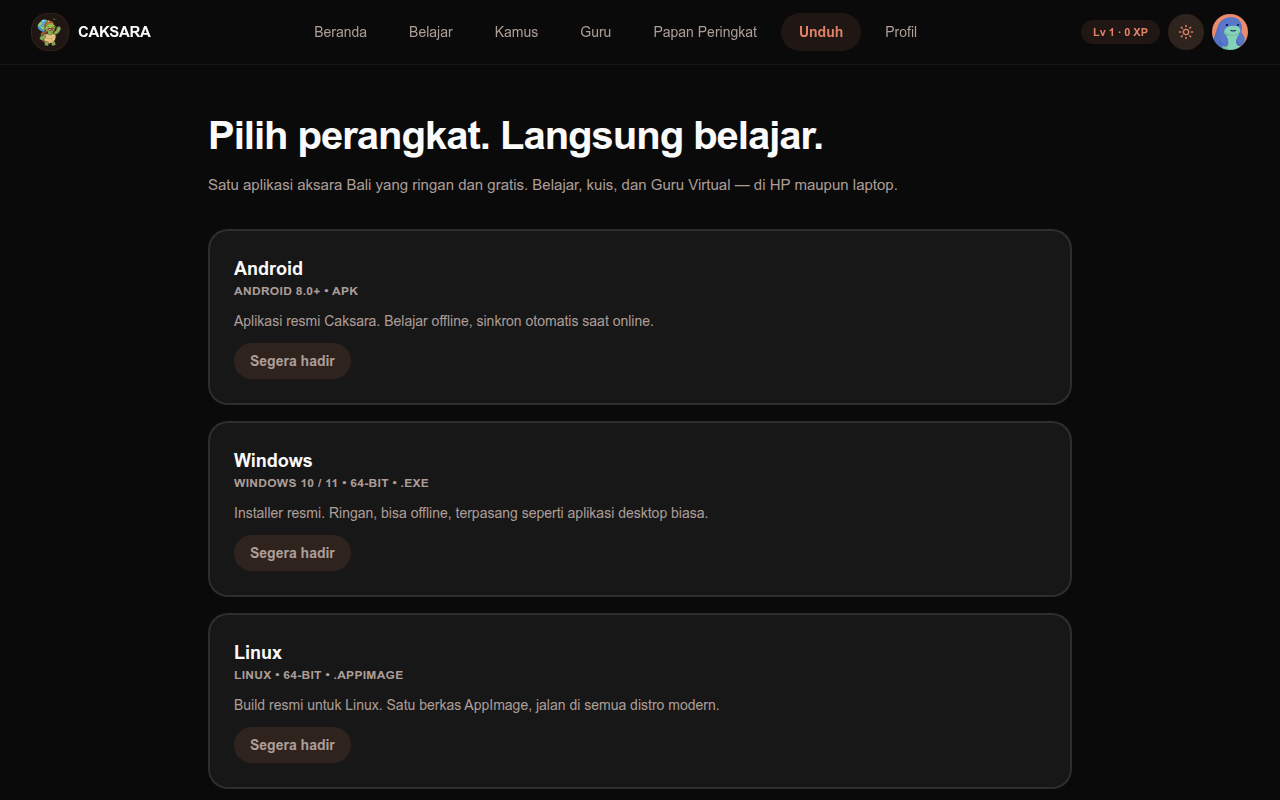
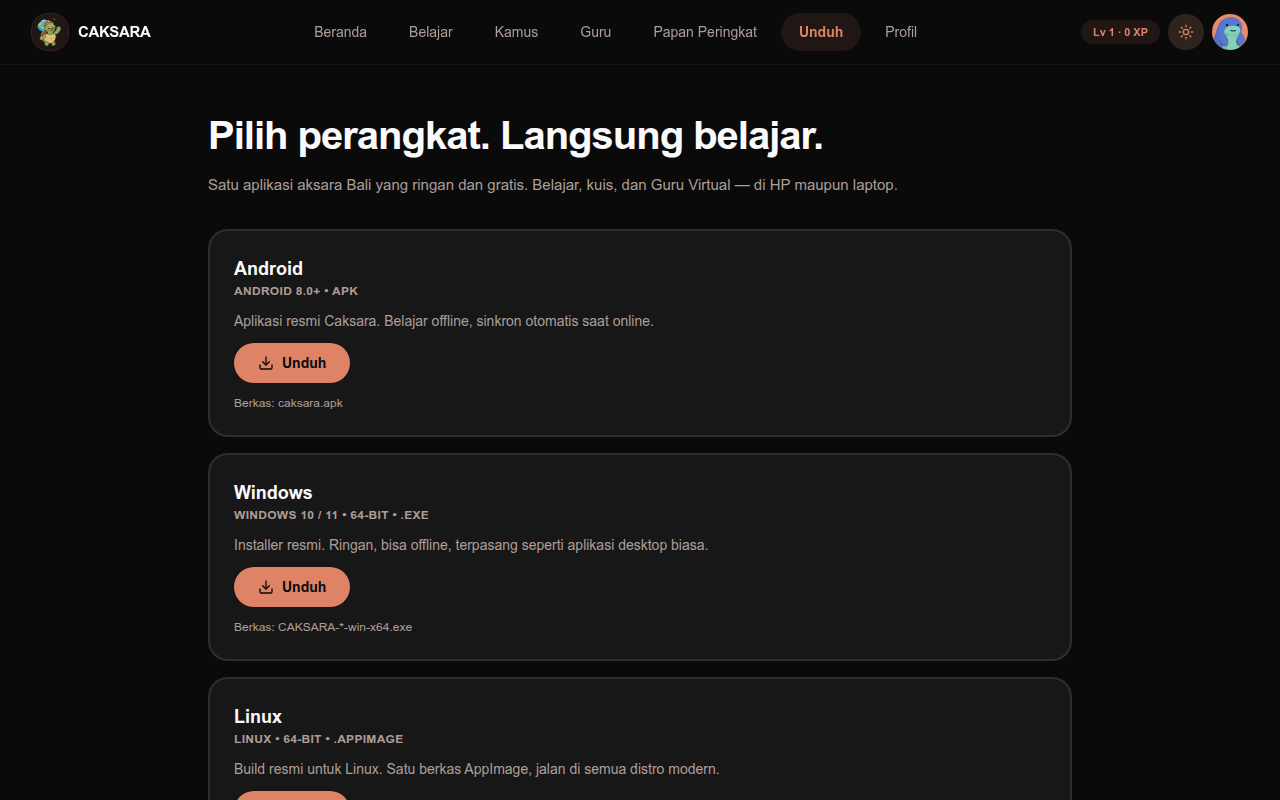
feat(unduh): builder lokal sandbox + tombol rilis nyata
scripts/package-local.sh: gate verify:caksara hijau dulu baru electron-builder AppImage+exe; APK via Android Studio. UnduhPage: tiap kartu tombol Unduh ke releases/latest + nama berkas. Tanpa CI builder.

Changed region(s): [[0.1562, 0.5625, 0.5625, 1.0], [0.1562, 0.4062, 0.2812, 0.5312]]

diff --git a/apps/web/src/features/unduh/unduh-page.tsx b/apps/web/src/features/unduh/unduh-page.tsx
@@ -1,13 +1,13 @@
 import { Download } from "lucide-react";
 
-import { UNDUH_ARTIFACTS } from "./unduh-data";
+import { UNDUH_ARTIFACTS, UNDUH_RELEASES_URL } from "./unduh-data";
 
 /**
  * Halaman Unduh (nav "Unduh", Pencil IpWol).
  * Matriks SSOT di unduh-data.ts: Android .apk, Windows .exe, Linux
  * .AppImage. Tanpa kartu iPhone (iOS out of scope, ADR-0014).
- * Tombol mengarah ke GitHub Releases latest; label jujur "Segera
- * hadir" sampai CI rilis (PR3) mengunggah aset pertama.
+ * Tiap kartu tombol Unduh ke GitHub Releases latest + nama berkas
+ * jujur di bawahnya; artefak dari builder lokal (package:local).
  */
 export function UnduhPage() {
   return (
@@ -32,19 +32,14 @@ export function UnduhPage() {
               <p className="text-xs font-bold tracking-wide text-muted-foreground">{a.spec}</p>
             </div>
             <p className="text-sm text-muted-foreground">{a.desc}</p>
-            {a.href ? (
-              <a
-                href={a.href}
-                className="inline-flex w-fit items-center gap-2 rounded-full bg-primary px-6 py-2.5 text-sm font-bold text-primary-foreground"
-              >
-                <Download className="size-4" aria-hidden />
-                Unduh {a.filePattern}
-              </a>
-            ) : (
-              <p className="inline-flex w-fit items-center gap-2 rounded-full bg-muted px-4 py-2 text-sm font-bold text-muted-foreground">
-                Segera hadir
-              </p>
-            )}
+            <a
+              href={UNDUH_RELEASES_URL}
+              className="inline-flex w-fit items-center gap-2 rounded-full bg-primary px-6 py-2.5 text-sm font-bold text-primary-foreground"
+            >
+              <Download className="size-4" aria-hidden />
+              Unduh
+            </a>
+            <p className="text-xs text-muted-foreground">Berkas: {a.filePattern}</p>
           </section>
         ))}
       </div>

diff --git a/apps/web/src/features/unduh/unduh-data.ts b/apps/web/src/features/unduh/unduh-data.ts
@@ -1,10 +1,10 @@
 /**
  * SSOT matriks Unduh (CONTEXT.md + ADR-0014 + Pencil IpWol).
  * Tiga artefak: Linux .AppImage saja, Windows .exe (nsis 64-bit),
- * Android .apk (Capacitor). Tanpa kartu keempat: platform Apple out
- * of scope. Tautan = GitHub Releases latest per pola nama
- * electron-builder / Capacitor; kosong sampai CI rilis (PR3)
- * mengunggah aset pertama.
+ * Android .apk (Capacitor). Tanpa iPhone: iOS out of scope (ADR-0014).
+ * Tombol mengarah ke GitHub Releases latest; artefak dibangun lokal
+ * via `bun run package:local` (gate website matang dulu) lalu
+ * diunggah manual ke tag v*.
  */
 export interface UnduhArtifact {
   id: "linux" | "windows" | "android";
@@ -12,7 +12,6 @@ export interface UnduhArtifact {
   spec: string;
   desc: string;
   filePattern: string;
-  href: string | null;
 }
 
 const RELEASE_LATEST = "https://github.com/TudeOrangBiasa/caksara/releases/latest";
@@ -24,7 +23,6 @@ export const UNDUH_ARTIFACTS: UnduhArtifact[] = [
     spec: "ANDROID 8.0+ • APK",
     desc: "Aplikasi resmi Caksara. Belajar offline, sinkron otomatis saat online.",
     filePattern: "caksara.apk",
-    href: null,
   },
   {
     id: "windows",
@@ -32,7 +30,6 @@ export const UNDUH_ARTIFACTS: UnduhArtifact[] = [
     spec: "WINDOWS 10 / 11 • 64-BIT • .EXE",
     desc: "Installer resmi. Ringan, bisa offline, terpasang seperti aplikasi desktop biasa.",
     filePattern: "CAKSARA-*-win-x64.exe",
-    href: null,
   },
   {
     id: "linux",
@@ -40,7 +37,6 @@ export const UNDUH_ARTIFACTS: UnduhArtifact[] = [
     spec: "LINUX • 64-BIT • .APPIMAGE",
     desc: "Build resmi untuk Linux. Satu berkas AppImage, jalan di semua distro modern.",
     filePattern: "CAKSARA-*.AppImage",
-    href: null,
   },
 ];
 

diff --git a/apps/web/src/features/unduh/unduh-data.test.ts b/apps/web/src/features/unduh/unduh-data.test.ts
@@ -2,9 +2,10 @@ import { describe, expect, test } from "bun:test";
 import { readFileSync } from "node:fs";
 import { join } from "node:path";
 
-import { UNDUH_ARTIFACTS } from "./unduh-data";
+import { UNDUH_ARTIFACTS, UNDUH_RELEASES_URL } from "./unduh-data";
 
 const webRoot = join(import.meta.dir, "..", "..", "..");
+const repoRoot = join(webRoot, "..", "..");
 const src = (p: string) => readFileSync(join(webRoot, "src", p), "utf8");
 
 describe("Unduh — matriks 3 artefak (CONTEXT.md + ADR-0014)", () => {
@@ -26,9 +27,18 @@ describe("Unduh — matriks 3 artefak (CONTEXT.md + ADR-0014)", () => {
     }
   });
 
-  test("tombol jujur: href null = badge segera hadir, bukan tautan mati", () => {
+  test("tiap kartu tombol Unduh ke releases/latest + nama berkas jujur", () => {
     const page = src("features/unduh/unduh-page.tsx");
-    expect(page.includes("Segera hadir")).toBe(true);
+    expect(page.includes("UNDUH_RELEASES_URL")).toBe(true);
     expect(page.includes('href="#"')).toBe(false);
+    expect(UNDUH_RELEASES_URL).toContain("github.com");
+    expect(UNDUH_RELEASES_URL).toContain("releases/latest");
+  });
+
+  test("tanpa CI builder: tanpa workflow release, builder lokal + gate", () => {
+    expect(readFileSync(join(repoRoot, ".gitignore"), "utf8")).toContain("apps/desktop/release");
+    const script = readFileSync(join(repoRoot, "scripts", "package-local.sh"), "utf8");
+    expect(script.includes("verify:caksara")).toBe(true);
+    expect(script.includes("electron-builder")).toBe(true);
   });
 });
